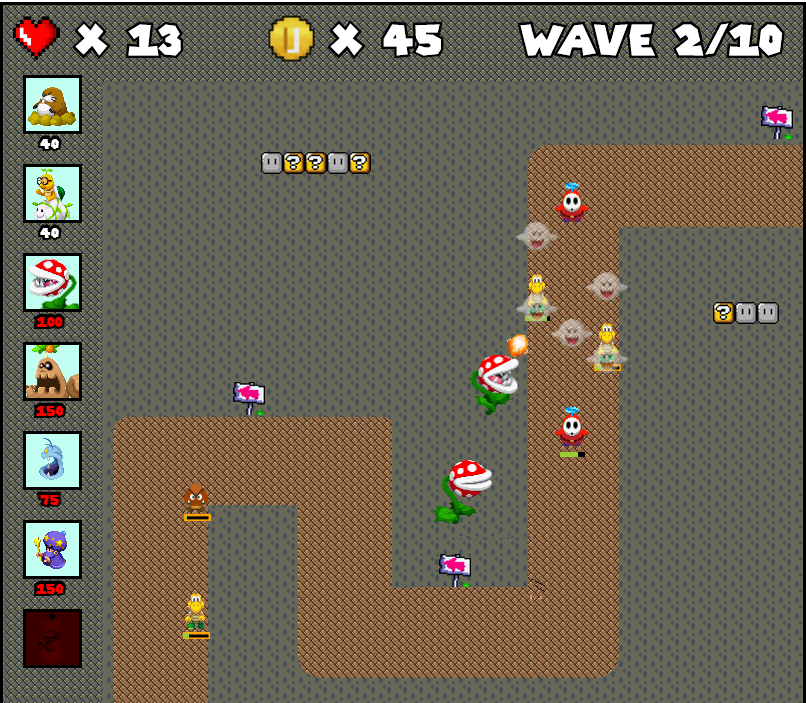
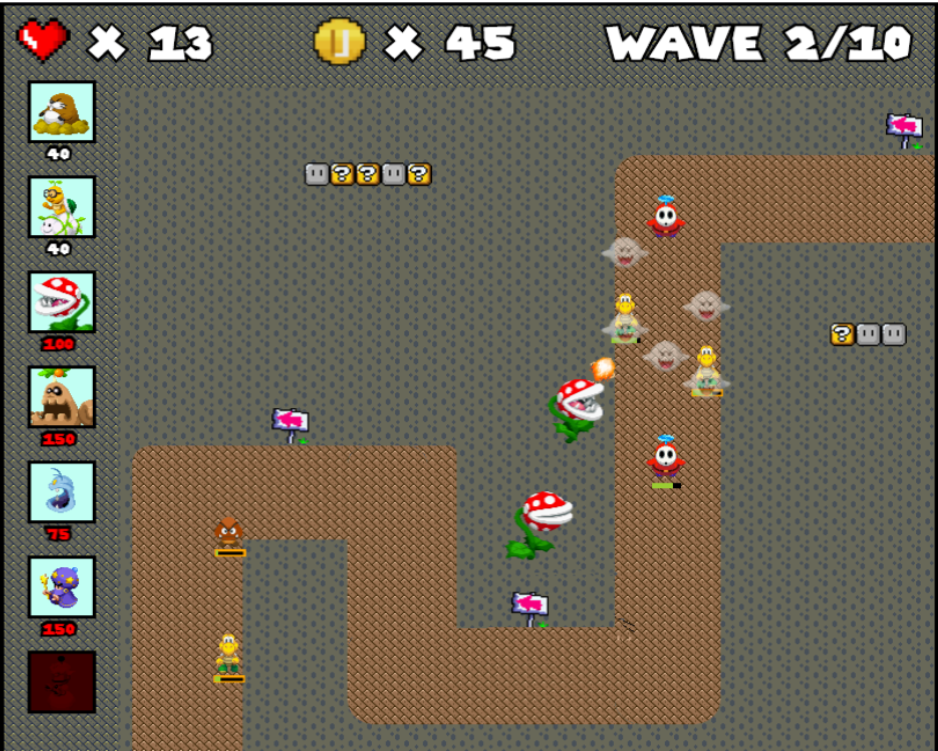
Added current project, link to Movie-link, corrected pic ratios

diff --git a/docs/src/components/Projects.js b/docs/src/components/Projects.js
@@ -14,6 +14,20 @@ const Projects = () => (
     <SectionHeader sectionHeader="Projects" />
     <div className="projects-list">
       <ProjectCard
+        projectImage="https://media1.tenor.com/images/338b129fe0f60be70dbd6298f7b64604/tenor.gif?itemid=5495549"
+        projectTitle="Current Project"
+        projectDetails="A Full Stack e-commerce website complete with MySQL database, Node.js and Express backend server, and authentication."
+        projectSkills={[
+          "Node.js",
+          "React.js",
+          "Express",
+          "MySQL",
+          "REST API",
+          "Authentication"
+        ]}
+      />
+
+      <ProjectCard
         projectImage={inspectionDashScreenshot}
         projectTitle="Manufacturing Dashboard"
         projectDetails="An manufacturing inspection dashboard that displays real-time results, trending, graphical analysis, and alerts."
@@ -36,7 +50,15 @@ const Projects = () => (
           "JavaScript",
           "Sass"
         ]}
-      />
+      >
+        <a
+          href="https://blissful-galileo-d1bea6.netlify.com/"
+          target="_blank"
+          rel="noopener noreferrer"
+        >
+          GIVE IT A TRY!
+        </a>
+      </ProjectCard>
 
       <ProjectCard
         projectImage={waScreenshot}

diff --git a/docs/src/styles/styles.scss b/docs/src/styles/styles.scss
@@ -160,7 +160,6 @@ blockquote {
 }
 .project-card {
   flex-shrink: 1;
-
   max-width: 450px;
   margin: 30px 15px 30px 15px;
 }
@@ -169,6 +168,7 @@ blockquote {
   height: 360px;
   width: 100%;
   max-width: 100%;
+  object-fit: cover;
 }
 
 .image-container {
@@ -179,13 +179,27 @@ blockquote {
 
 .project-body {
   padding: 10px;
-
   border-top: solid lightgray 1px;
 }
 
 .project-title {
   font-size: 1.5rem;
   color: rgb(231, 115, 7);
+}
+
+.proj-link {
+  display: flex;
+  justify-content: center;
+  a,
+  a:visited {
+    color: yellow;
+    font-weight: bolder;
+    font-size: 1.5rem;
+    border: yellow solid 3px;
+    border-radius: 3px;
+    padding: 10px 30px;
+    margin-bottom: 15px;
+  }
 }
 
 .skills-section {

diff --git a/docs/src/components/Sidebar.js b/docs/src/components/Sidebar.js
@@ -1,4 +1,5 @@
 import React from "react";
+
 import projectsIcon from "../images/icons/projects-icon.png";
 import aboutIcon from "../images/icons/about-icon.png";
 import experienceIcon from "../images/icons/experience-icon.png";

diff --git a/docs/src/components/sub-components/ProjectCard.js b/docs/src/components/sub-components/ProjectCard.js
@@ -15,6 +15,7 @@ const ProjectCard = props => (
           return <li>{skill}</li>;
         })}
       </ul>
+      <span className="proj-link">{props.children}</span>
     </div>
   </div>
 );
